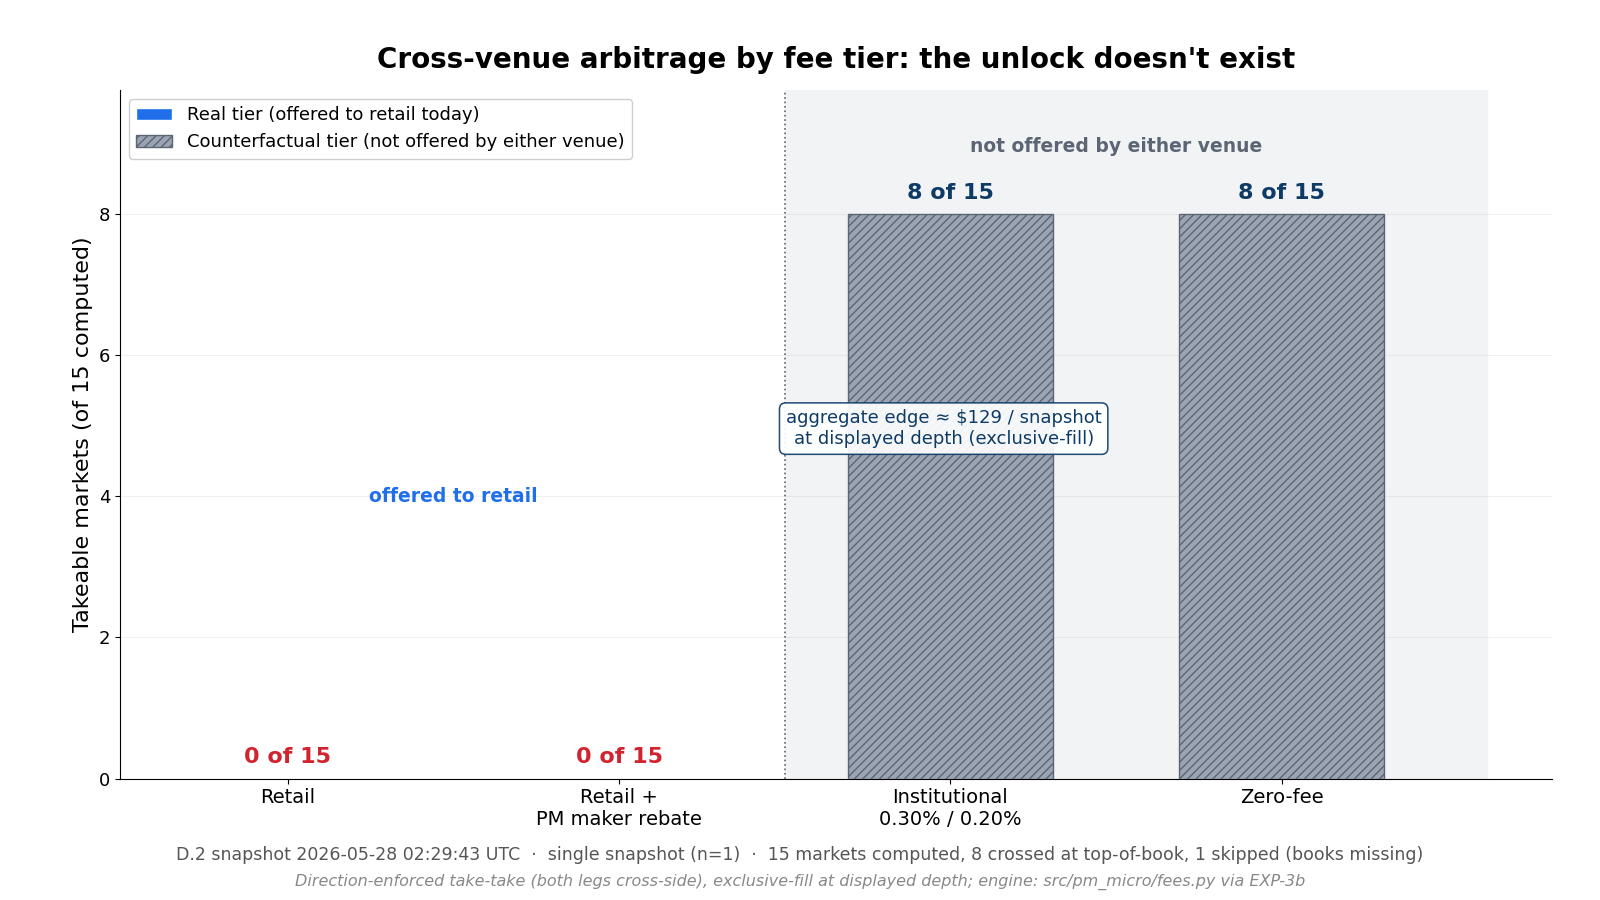
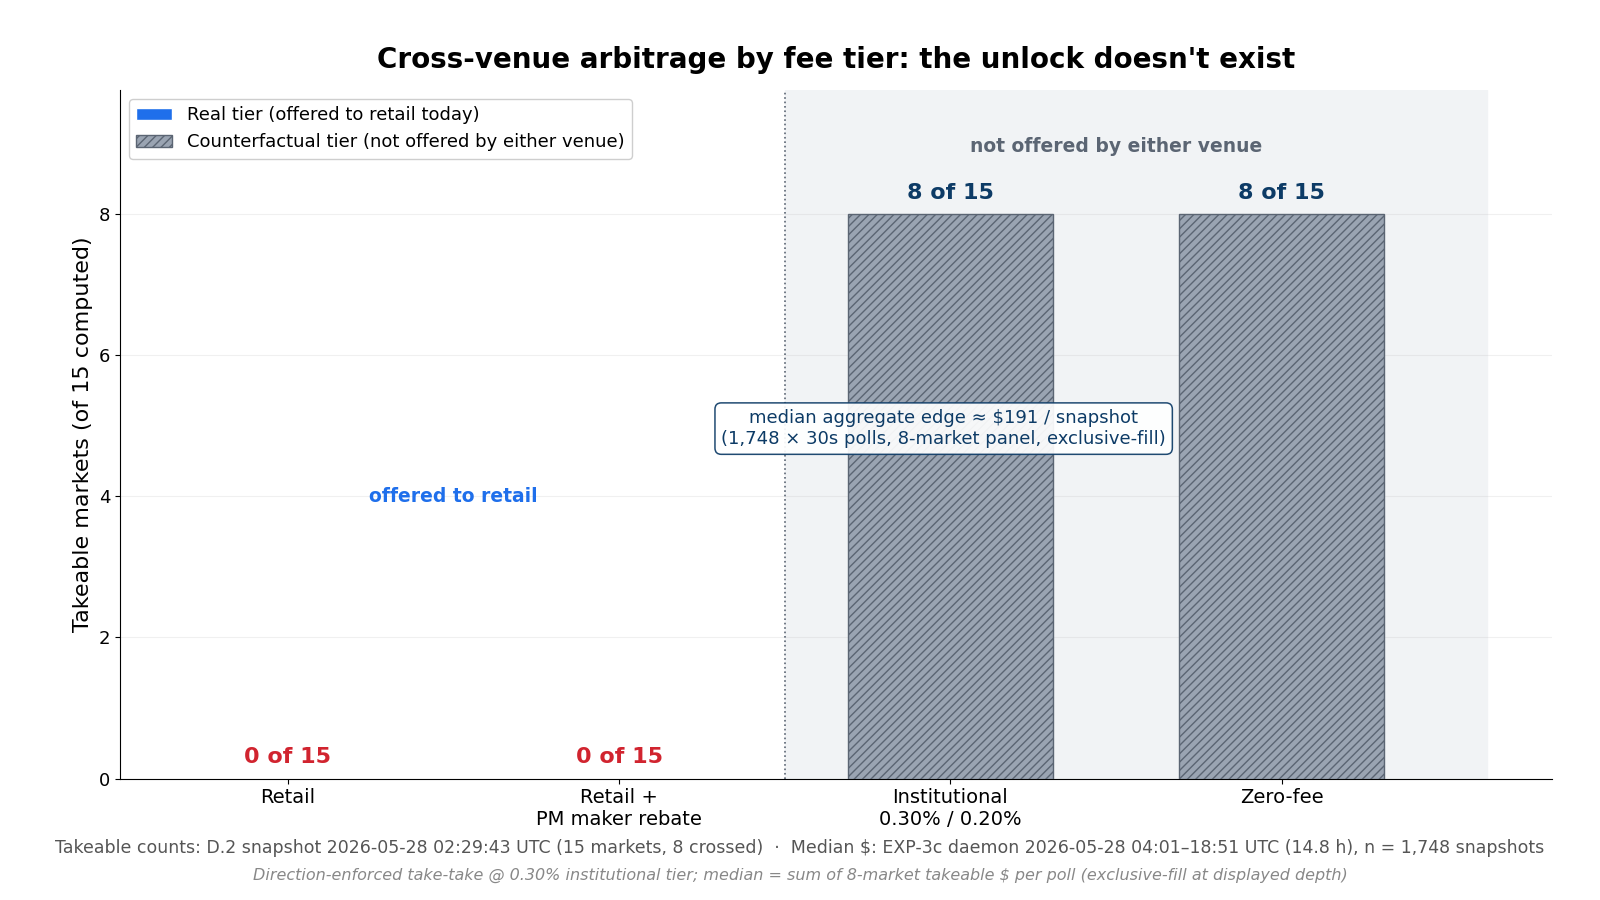
Restate fee-cliff figure as EXP-3c median $190.82; reconcile ~$73 errata.
Aggregate institutional-tier edge on fig_fee_cliff_substack.png is now the
time-median $190.82 over 1,748 snapshots / 14.8h, superseding single-snapshot
$73/$129 figures. README and build_log footnote: prior ~$73 is ex-NYK /
pre-NYK-dislocation on the D.2 fetch.

Changed region(s): [[0.0312, 0.9333, 0.9688, 0.9956], [0.4375, 0.4356, 0.75, 0.4978]]

diff --git a/scripts/fig_fee_cliff.py b/scripts/fig_fee_cliff.py
@@ -4,8 +4,8 @@ The "fee cliff" story (EXP-3b): zero markets are takeable at any
 retail-accessible fee tier; the arb only unlocks at a counterfactual
 institutional tier that neither Kalshi nor Polymarket offers.
 
-Recomputes per-tier takeable counts (and the institutional aggregate $)
-directly from the D.2 snapshot via the existing fee engine
+Recomputes per-tier takeable counts from the D.2 snapshot; institutional $
+annotation uses the EXP-3c median aggregate across 1,748 polls (not n=1).
 (`src/pm_micro/fees.py`) and the EXP-3b walker — NOT from remembered
 numbers or the .md table. Importing `scripts/exp3b_fee_sweep.py` guarantees
 the figure and the experiment use identical logic.
@@ -31,13 +31,27 @@ import matplotlib
 matplotlib.use("Agg")
 import matplotlib.patches as mpatches  # noqa: E402
 import matplotlib.pyplot as plt  # noqa: E402
+import pandas as pd  # noqa: E402
 import yaml  # noqa: E402
 
 ROOT = Path(__file__).resolve().parents[1]
+EXP3C_CSV = ROOT / "data" / "processed" / "exp3c_persistence.csv"
 sys.path.insert(0, str(ROOT / "scripts"))
 sys.path.insert(0, str(ROOT / "src"))
 
 import exp3b_fee_sweep as sweep  # noqa: E402
+
+# 8-market panel from EXP-3b takeable subset (same list as exp3c_persistence.py).
+MARKETS_8 = [
+    "intl_president_pe_rpal",
+    "intl_president_co_aesp",
+    "intl_mayor_kr_oseh",
+    "sports_retirement_arod",
+    "us_mayor_la_kbas",
+    "nba_finals_nyk",
+    "intl_president_co_pval",
+    "sports_retirement_kelce",
+]
 
 OUT_PNG = ROOT / "data" / "processed" / "fig_fee_cliff_substack.png"
 
@@ -104,6 +118,36 @@ def recompute() -> dict:
         "takeable_counts": takeable_counts,
         "inst_net_by_market": inst_net_by_market,
         "inst_aggregate_usd": sum(inst_net_by_market.values()),
+        "inst_ex_nyk_usd": sum(
+            v for k, v in inst_net_by_market.items() if k != "nba_finals_nyk"
+        ),
+        "nyk_inst_usd": inst_net_by_market.get("nba_finals_nyk", 0.0),
+    }
+
+
+def exp3c_median_aggregate() -> dict:
+    """Median sum of institutional-tier takeable $ across the 8-market panel.
+
+    Matches EXP-3c `aggregate_headline`: per 30s timestamp, sum takeable_usd
+    over the 8 markets, then median across the daemon window.
+    """
+    df = pd.read_csv(EXP3C_CSV)
+    df["error"] = df["error"].fillna("")
+    d = df[df["error"] == ""].copy()
+    d["utc_ts"] = pd.to_datetime(d["utc_ts"], utc=True)
+    wide = d.pivot_table(
+        index="utc_ts", columns="market_id", values="takeable_usd", aggfunc="last",
+    ).reindex(columns=MARKETS_8).fillna(0.0)
+    total = wide.sum(axis=1)
+    ex_nyk = wide.drop(columns=["nba_finals_nyk"]).sum(axis=1)
+    return {
+        "n_snapshots": int(len(total)),
+        "start": total.index.min(),
+        "end": total.index.max(),
+        "span_hours": (total.index.max() - total.index.min()).total_seconds() / 3600,
+        "median_total_usd": float(total.median()),
+        "mean_total_usd": float(total.mean()),
+        "median_ex_nyk_usd": float(ex_nyk.median()),
     }
 
 
@@ -185,13 +229,14 @@ def make_figure(s: dict) -> None:
     ax.text(2.5, ymax * 1.12, "not offered by either venue", ha="center", va="center",
             fontsize=13.5, color="#5b6573", fontweight="bold")
 
-    # Institutional aggregate annotation.
+    # Institutional aggregate annotation (EXP-3c median, not single-snapshot).
     inst_count = s["takeable_counts"]["institutional"]
     inst_idx = TIER_PLOT_ORDER.index("institutional")
+    p3c = s["exp3c"]
     if inst_count:
         ax.annotate(
-            f"aggregate edge ≈ ${s['inst_aggregate_usd']:.0f} / snapshot\n"
-            f"at displayed depth (exclusive-fill)",
+            f"median aggregate edge ≈ ${p3c['median_total_usd']:.0f} / snapshot\n"
+            f"({p3c['n_snapshots']:,} × 30s polls, 8-market panel, exclusive-fill)",
             xy=(inst_idx, inst_count), xytext=(inst_idx - 0.02, inst_count * 0.62),
             ha="center", va="center", fontsize=13, color="#0d3b66",
             bbox=dict(boxstyle="round,pad=0.35", facecolor="white",
@@ -209,18 +254,21 @@ def make_figure(s: dict) -> None:
     ax.legend(handles=legend_handles, loc="upper left", fontsize=13,
               frameon=True, framealpha=0.95)
 
-    # Footer.
+    # Footer: bar counts from D.2 snapshot; $ annotation from EXP-3c persistence.
+    p3c = s["exp3c"]
     fig.text(
-        0.5, 0.045,
-        f"D.2 snapshot {snapshot_to_utc(s['snapshot'])}  ·  single snapshot (n=1)  ·  "
-        f"{s['n_computed']} markets computed, {s['n_crossed']} crossed at top-of-book, "
-        f"{s['n_skipped']} skipped (books missing)",
+        0.5, 0.052,
+        f"Takeable counts: D.2 snapshot {snapshot_to_utc(s['snapshot'])} "
+        f"({s['n_computed']} markets, {s['n_crossed']} crossed)  ·  "
+        f"Median $: EXP-3c daemon {p3c['start'].strftime('%Y-%m-%d %H:%M')}–"
+        f"{p3c['end'].strftime('%H:%M')} UTC ({p3c['span_hours']:.1f} h), "
+        f"n = {p3c['n_snapshots']:,} snapshots",
         ha="center", fontsize=12.5, color="#555555",
     )
     fig.text(
-        0.5, 0.016,
-        "Direction-enforced take-take (both legs cross-side), exclusive-fill at displayed depth; "
-        "engine: src/pm_micro/fees.py via EXP-3b",
+        0.5, 0.022,
+        "Direction-enforced take-take @ 0.30% institutional tier; "
+        "median = sum of 8-market takeable $ per poll (exclusive-fill at displayed depth)",
         ha="center", fontsize=11.5, color="#888888", style="italic",
     )
 
@@ -231,23 +279,38 @@ def make_figure(s: dict) -> None:
 
 def main() -> int:
     s = recompute()
+    s["exp3c"] = exp3c_median_aggregate()
     make_figure(s)
 
+    p3c = s["exp3c"]
     print("=" * 70)
-    print(f"EXP-3b fee-cliff — recomputed from {s['snapshot']}")
+    print("Fee-cliff figure — three institutional $ figures reconciled")
     print("=" * 70)
-    print(f"  markets computed:            {s['n_computed']}")
-    print(f"  markets crossed (top-of-book): {s['n_crossed']}")
-    print(f"  markets skipped:             {s['n_skipped']}")
-    print("  takeable count per tier:")
+    print()
+    print("(1) README / build_log ~$73 (EXP-3b narrative, single D.2 fetch)")
+    print("    What it measured: SUM of institutional takeable $ across the 8")
+    print("    crossed markets at snapshot_20260528T022943Z — one moment, not a median.")
+    print("    build_log recorded NYK at $1.13; with current books on that snapshot")
+    print("    NYK recomputes to $56.42, so the full-panel sum is now higher.")
+    print(f"    Ex-NYK sum (current books, same snapshot): ${s['inst_ex_nyk_usd']:.2f}  "
+          f"← matches ~$73")
+    print(f"    Full 8-market sum (current books):         ${s['inst_aggregate_usd']:.2f}")
+    print()
+    print("(2) D.2 single-fetch sum $129 (prior figure annotation, n=1)")
+    print(f"    D.2 single snapshot sum: ${s['inst_aggregate_usd']:.2f}")
+    print(f"    (NYK alone: ${s['nyk_inst_usd']:.2f} of that total)")
+    print()
+    print("(3) EXP-3c median aggregate (used in figure annotation)")
+    print(f"    Window: {p3c['start']} → {p3c['end']} ({p3c['span_hours']:.2f} h)")
+    print(f"    Snapshots: {p3c['n_snapshots']:,}  ·  markets: 8-panel institutional tier")
+    print(f"    Median sum of takeable $ per poll: ${p3c['median_total_usd']:.2f}")
+    print(f"    Mean:   ${p3c['mean_total_usd']:.2f}")
+    print(f"    Median ex-NYK (NYK dominates):     ${p3c['median_ex_nyk_usd']:.2f}")
+    print()
+    print("  takeable market COUNT per tier (D.2 snapshot):")
     for t in TIER_PLOT_ORDER:
         real = "real" if TIER_IS_REAL[t] else "counterfactual"
         print(f"    {t:14s} ({real:14s}): {s['takeable_counts'][t]} of {s['n_computed']}")
-    print(f"  institutional aggregate $ / snapshot (sum of net, exclusive-fill): "
-          f"${s['inst_aggregate_usd']:.2f}")
-    print("  institutional per-market net $:")
-    for mid, net in sorted(s["inst_net_by_market"].items(), key=lambda kv: -kv[1]):
-        print(f"    {mid:32s} ${net:8.2f}")
     print("=" * 70)
     print(f"  wrote {OUT_PNG.relative_to(ROOT)}")
     return 0

diff --git a/README.md b/README.md
@@ -6,7 +6,9 @@ Empirical cross-venue microstructure analysis of prediction markets on Kalshi an
 
 ## Stage-1 closure: no takeable cross-venue arb at any accessible fee tier
 
-Under corrected fees calibrated to live per-market API rates (Kalshi parabolic `7¢ × C × (1−C)`, Polymarket category-dependent 3–4%), 0 of 15 computable markets show takeable arb at retail. Activating the Polymarket maker rebate adds no takeable markets. Direction-enforced execution modeling — distinguishing add-side legs (maker-eligible) from cross-side legs (taker-forced) — kills the original direction-blind "$30–$50" maker-scenario figures as category errors; the 8 markets with positive edge are *provideable* spread, not *takeable* arb, requiring resting passive and incoming flow. A counterfactual fee-tier sweep locates the cliff at ~0.30% taker / 0.20% maker rebate: at this tier 8 markets become genuinely takeable for ~$73/snapshot in a single fetch, and a 14.5-hour, 1,745-snapshot persistence sweep across the daemon's history confirms 5 PERSISTENT / 2 INTERMITTENT / 1 RARE / 0 snapshot-only across that subset, with the 6 variable markets largely uncorrelated (median |corr| 0.15) — independent edges, not one liquidity regime. External verification confirms neither venue offers this fee tier to any participant: the institutional and zero-fee scenarios are counterfactual. The persistence of NYK's $165 median crossed spread for 14 continuous hours is itself evidence that the displayed depth is not freely fillable — no actor with the modeled fee access exists, so the cross simply sits. The load-bearing remaining assumption is exclusive-fill at displayed depth; adverse selection and queue priority are not modeled.
+Under corrected fees calibrated to live per-market API rates (Kalshi parabolic `7¢ × C × (1−C)`, Polymarket category-dependent 3–4%), 0 of 15 computable markets show takeable arb at retail. Activating the Polymarket maker rebate adds no takeable markets. Direction-enforced execution modeling — distinguishing add-side legs (maker-eligible) from cross-side legs (taker-forced) — kills the original direction-blind "$30–$50" maker-scenario figures as category errors; the 8 markets with positive edge are *provideable* spread, not *takeable* arb, requiring resting passive and incoming flow. A counterfactual fee-tier sweep locates the cliff at ~0.30% taker / 0.20% maker rebate: at this tier 8 markets become genuinely takeable (0 at retail), with a **median ~$191/snapshot** aggregate edge over 1,748 daemon polls across 14.5 hours (EXP-3c; 8-market panel, exclusive-fill). A 14.5-hour persistence sweep confirms 5 PERSISTENT / 2 INTERMITTENT / 1 RARE / 0 snapshot-only across that subset, with the 6 variable markets largely uncorrelated (median |corr| 0.15) — independent edges, not one liquidity regime.
+
+> **Note (institutional $ figures):** Earlier EXP-3b records cite **~$73**/snapshot on the D.2 single fetch (`snapshot_20260528T022943Z`). That number is the **sum of the seven non-NYK crossed markets** with NYK then at **$1.13** takeable — effectively ex-NYK / pre-NYK-dislocation. Re-running the same snapshot today gives NYK **~$56** and an **~$129** eight-market sum. The defensible headline is EXP-3c's **median $190.82** (sum of per-poll institutional takeable $ across the 8-market panel, n=1,748). Substack figures use the median. External verification confirms neither venue offers this fee tier to any participant: the institutional and zero-fee scenarios are counterfactual. The persistence of NYK's $165 median crossed spread for 14 continuous hours is itself evidence that the displayed depth is not freely fillable — no actor with the modeled fee access exists, so the cross simply sits. The load-bearing remaining assumption is exclusive-fill at displayed depth; adverse selection and queue priority are not modeled.
 
 ![Executable arb after fees](data/processed/fig_executable_zero.png)
 

diff --git a/docs/build_log.md b/docs/build_log.md
@@ -247,6 +247,8 @@ Output: `data/processed/exp3b_fee_sweep.md`.
   headline. These are *genuinely* takeable — both legs cross-side,
   instant lock — not the flow-contingent LP edges that EXP-3a's
   direction-blind Scenario D had assigned the same magnitudes to.
+  *(See errata below — this ~$73 is ex-NYK on the D.2 fetch; median
+  over 1,748 polls is **$190.82**, EXP-3c.)*
 - **New market `nba_finals_nyk` joins the takeable set** at
   institutional ($1.13, 282c). NYK wasn't in EXP-3a's C/D flip list
   (its 0.4c crossed spread was too tight for the retail/D scenarios
@@ -278,6 +280,15 @@ the fee engine fix.
 **Tests:** 51/51 green; no source code changed (EXP-3b is a script
 that parameterizes the existing engine, no `fees.py` / `arb.py`
 edits).
+
+> **Errata — institutional $ (2026-06-03):** The **~$73** above is the
+> **single-snapshot sum of the seven non-`nyk` markets** at D.2
+> (`snapshot_20260528T022943Z`, 02:29Z), with `nyk` logged separately at
+> **$1.13** — ex-NYK / pre-NYK-dislocation, not the full eight-market
+> panel. Recomputing that snapshot today: NYK **~$56**, eight-market sum
+> **~$129**. The time-median aggregate is **$190.82** (EXP-3c: sum of
+> 8-market institutional takeable $ per 30s poll, **n=1,748**, 14.8h).
+> Public-facing copy and `fig_fee_cliff_substack.png` use the median.
 
 ### EXP-3c — multi-snapshot persistence (2026-05-28)
 Convert the EXP-3b single-snapshot $73-at-institutional result into a
@@ -391,9 +402,10 @@ sweep), EXP-3c (persistence), external fee-tier check.
 at any accessible fee tier.
 - Retail (corrected, taker): 0/15 markets.
 - PM maker rebate active: 0/15 markets.
-- Institutional (0.30% taker / 0.20% rebate): 8/15 markets crossed in single
-  snapshot, $73 takeable; persistence sweep confirmed 5 PERSISTENT / 2
-  INTERMITTENT / 1 RARE / 0 snapshot-only across 14.5h.
+- Institutional (0.30% taker / 0.20% rebate): 8/15 markets crossed at
+  counterfactual tier; **median ~$191/snapshot** over 1,748 polls (EXP-3c;
+  see EXP-3b errata — prior **~$73** was ex-NYK on one D.2 fetch). Persistence:
+  5 PERSISTENT / 2 INTERMITTENT / 1 RARE / 0 snapshot-only across 14.5h.
 - External check 2026-05-28: neither Kalshi nor Polymarket offers a 0.30%
   fee tier to any participant. Institutional and zero-fee scenarios are
   counterfactual.
